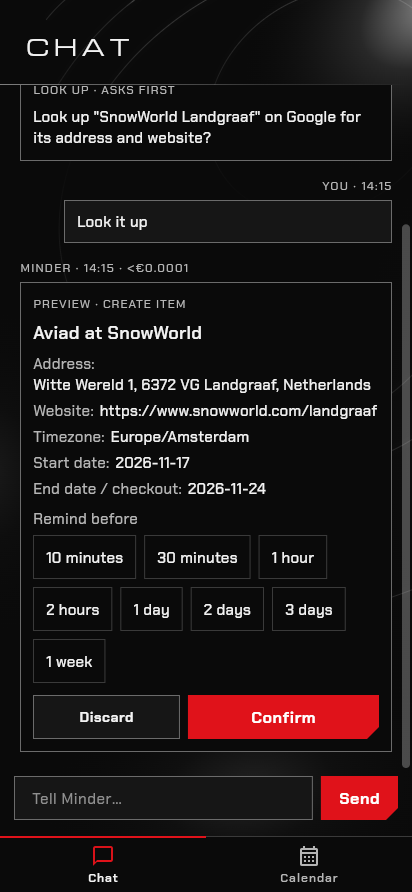
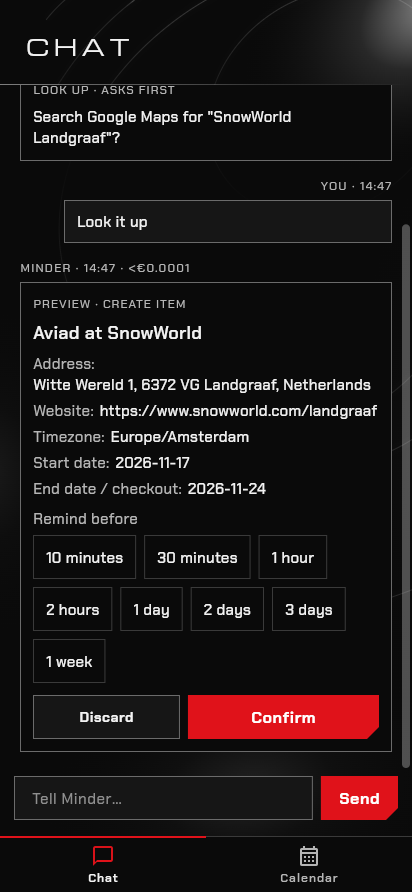
Document and verify approved lookups

diff --git a/toolchain/model_fixture.py b/toolchain/model_fixture.py
@@ -20,12 +20,10 @@ class Handler(BaseHTTPRequestHandler):
         if body.get('tools',[{}])[0].get('function',{}).get('name')=='extract_capture':
             return self.capture_response(messages)
         text=messages[-1]['content'].lower()
-        if 'approved a lookup' in text_of(messages[-1]):
-            return self.reply(None,'lookup_maps',{'query':'SnowWorld Landgraaf'})
         if 'lookup results' in text_of(messages[-1]):
             return self.reply(None,'propose_create',{'title':'Aviad at SnowWorld','location':'Witte Wereld 1, 6372 VG Landgraaf, Netherlands','website':'https://www.snowworld.com/landgraaf','start_date':'2026-11-17','end_date':'2026-11-24'})
         if 'snowworld' in text and any(t.get('function',{}).get('name')=='offer_lookup' for t in body.get('tools',[])):
-            return self.reply(None,'offer_lookup',{'query':'SnowWorld Landgraaf'})
+            return self.reply(None,'offer_lookup',{'kind':'maps','query':'SnowWorld Landgraaf'})
         items=json.loads(messages[0]['content'].split('Current items (untrusted data): ',1)[1])
         name=None;args={};content=None
         if 'what' in text and 'open' in text:name='list_items'

diff --git a/docs/evidence/place-lookup.md b/docs/evidence/place-lookup.md
@@ -34,19 +34,20 @@ Artifact: `.local/artifacts/Minder-0.9.2-arm64.apk` (ignored by Git), 19,289,894
 
 ## Postal code fix
 
-The owner tried SnowWorld Landgraaf on a phone and got only `Witte Wereld 1`, with no postal code or town. A live comparison on 2026-11-14 found the cause: Serper `/places` returns the short address, `/maps` returns `Witte Wereld 1, 6372 VG Landgraaf, Netherlands`. Deployed at `323e5fb` with the maps search; the lookup loop below replaces that single fixed endpoint. The first live check (earlier table) used `/places`, so it could not show the gap. Not yet verified on a phone.
+The owner tried SnowWorld Landgraaf on a phone and got only `Witte Wereld 1`, with no postal code or town. A live comparison on 2026-11-14 found the cause: Serper `/places` returns the short address, `/maps` returns `Witte Wereld 1, 6372 VG Landgraaf, Netherlands`. Fixed by moving the lookup to the maps search (deployed at `323e5fb`); the kinds are now offered by the model, see Approved lookups. The first live check (earlier table) used `/places`, so it could not show the gap. Not yet verified on a phone.
 
-## Lookup loop
+## Approved lookups
 
-Spec: [lookup loop design](../superpowers/specs/2026-11-14-lookup-loop-design.md). Plan: [lookup loop plan](../superpowers/plans/2026-11-14-lookup-loop.md). In `main`, deployed at `60ec83c` (Coolify deployment `e78r04hjvjqog11zkhcfiixm`, running:healthy, `serper_key_set=true`, no warnings or errors in the first 40 log lines). Not tried on a phone or with the real model yet.
-After the owner taps Look it up the model chooses `lookup_maps`, `lookup_places` or `lookup_search`, reads the results as untrusted data, and may search again up to three times in total, then proposes or asks the owner. No server fallback. The serper package is split into transport, endpoint table, decoders and a thin client. `SERPER_URL` is now a base URL.
+Spec: [approved lookups design](../superpowers/specs/2026-11-14-approved-lookups-design.md). Plan: [approved lookups plan](../superpowers/plans/2026-11-14-approved-lookups.md). A first version let the model run up to three searches after one tap. On 2026-11-14 the owner asked "try to get full address" and the model replied that it had used all its searches, though no search had run in that turn: the prompt described the lookup tools and a budget in turns where the model had no such tools. The owner asked why any limit existed and chose per-call approval.
+Now the model calls `offer_lookup` with a kind (`maps`, `places`, `search`) and a query. The card names the search. A tap runs exactly that search on the server; the model reads the hits as untrusted data and proposes, asks the owner, or offers one more search. No loop, no budget, no app change.
 
 | Check | Result |
 |---|---|
-| Live, 2026-11-14 | One real query per kind through the adapter: maps returned the full SnowWorld address with postal code and phone (3 credits); places returned Rijksmuseum, `Museumstraat 1`, rating 4.7 (1 credit); search returned three pages with snippets (1 credit) |
-| Browser | `toolchain/place-lookup-local-check` passed: the model fixture chose `/maps`; exactly one request; the preview showed the postal code; Skip ran none |
-| Loop tests | Budget of three, one reply cannot overspend, mixed replies run only the lookups, a failed lookup reaches the model as an error row, blank query costs no budget, the model can ask the owner, every model call is billed |
-| Not verified | A real model's choice among the three tools, and its ask-instead-of-guess behaviour. Both need a phone or a real-model run |
+| Tests first | Domain offer format per kind and rejection of other text; the approved offer runs that kind and query once; results are untrusted data; failed and empty searches reach the model; a new offer after results runs nothing; gate cases; the prompt names no budget; tool sets by purpose; the offer tool requires `kind` and `query` |
+| Browser | `toolchain/place-lookup-local-check` passed: the card read `Search Google Maps for "SnowWorld Landgraaf"?`, nothing ran before the tap, exactly one `/maps` request after it, the preview showed the postal code, Skip ran none |
+| Live Serper, 2026-11-14 | Maps, places and search each returned results through the adapter (see the earlier run: maps 3 credits, places 1, search 1) |
+| Real model, 2026-11-14 | Local server, OpenRouter and Serper through TokenCrypt. "Aviad Landgraaf SnowWorld 17 to 24 november" produced a Maps offer; the tap produced a preview with title, `Witte Wereld 1, 6372 VG Landgraaf, Netherlands`, phone and website in their own fields. "try to get full address" afterwards produced a new offer instead of a refusal. "Add Albert Heijn tomorrow at 10:00" made the model ask which branch; after "Look it up" typed as text it offered `Albert Heijn Amsterdam`, a guess the owner sees and can skip |
+| Not verified | Phone behaviour; whether the model picks places or search when they fit better than maps (the real runs only offered maps) |
 
 ## Limits
 

diff --git a/server/assistant/AGENTS.md b/server/assistant/AGENTS.md
@@ -16,7 +16,7 @@ Extraction asks as a thoughtful assistant would: any number of questions, no fix
 
 Chat tools are `propose_create`, `propose_update`, `propose_complete`, `propose_cancel` (status `cancelled`) and `propose_delete` (removes the item and its data), plus `propose_profile`, `list_items` (open items, shown to the owner) and `find_finished_items`. The prompt keeps done, cancelled and deleted apart. Deleted items and their cards leave the history and context. The agent sees the last 20 chat entries and at most 200 open items. `find_finished_items` (`query`, `list`) reaches done and cancelled items: the server makes one more model call with the matches as untrusted data (newest first, at most 50; the grown request stays under 120,000 bytes). That call answers about them or proposes a cancel or delete. The model must call the tool alone; any other calls in that reply are dropped, and a second lookup is an error. Both calls are billed and the reply carries both costs.
 
-Lookups are optional (`WithLookups`). With a finder set, `Message.Purpose` on the first message is `PurposeOffer`, the prompt gains `lookupRule` and the model may call `offer_lookup` (`query`) alone: the server stores only the fixed-format offer entry (`domain.OfferText`) and drops other calls. The offer is the owner's approval. Only when the owner's text is `Look it up` and the newest entry before it is a minder offer (error entries and earlier Look it up messages are skipped, so Retry works) does the server run `askWithLookups` (`lookup_loop.go`): the model gets `PurposeLookup`, which adds `lookup_maps`, `lookup_places` and `lookup_search` from `LookupTools` (each description states cost and returned fields). Each reply's lookup calls run through the `Finder`, at most `lookupBudget` (3) searches per approval; other calls in that reply are dropped. Results return as one untrusted-data user message; a blank query or a call over the budget gets an error row and costs nothing. With the budget spent the model gets `PurposeChat` and must propose or ask the owner; lookup calls in the final reply are discarded. A plain-text reply is a question to the owner. Every model call is billed and the reply carries all costs. Any other text, a stale offer or a missing finder runs no search. Logs carry `query_len`, never the query. The loop has no fallback between tools: the model judges the results.
+Lookups are optional (`WithLookups`). With a finder set, `Message.Purpose` on the first message is `PurposeOffer`, the prompt gains `lookupRule` and the model may call `offer_lookup` (`kind`: maps, places or search; `query`) alone, once per owner message. The server stores only the fixed-format offer entry (`domain.OfferText`) and drops other calls; an unknown kind or blank query is an error. The offer is the owner's approval of that exact search. Only when the owner's text is `Look it up` and the newest entry before it is an offer (error entries and earlier Look it up messages are skipped, so Retry works) does the server run that kind and query through the `Finder` and add the hits to the request as untrusted data (`lookupMessage`; at most three hits). The model then gets its normal call: it proposes, asks the owner, or offers one more search, which is a new card and a new tap. A failed or empty search says so. Any other text, a stale offer or a missing finder runs no search. There is no search budget and no loop; the prompt never mentions a limit and tells the model that `offer_lookup` is how it searches. Logs carry `kind` and `query_len`, never the query.
 
 # Work Guidance
 

diff --git a/HANDOFF.md b/HANDOFF.md
@@ -2,7 +2,7 @@
 
 State on 2026-11-14. Production runs `60ec83c` from `main` (Coolify deployment `e78r04hjvjqog11zkhcfiixm`, running:healthy, schema 5, no migration, startup log `serper_key_set=true`, no warnings or errors in the first 40 log lines). The Coolify app is pinned to branch `main` at that commit. The previous runtime was `323e5fb` (maps only), reachable from `main`; roll back with branch `main` and that commit.
 `main` holds every earlier branch and is the only branch, locally and on origin. The worktree `Minder-m0-chat` is detached at `main`; start new work there with a new branch from `main`.
[2 lines of base64/hex data omitted]
 
 ## Current work: approved controls and booking fields
 
@@ -112,7 +112,7 @@ In `main` and deployed at `adb1bdf` (Coolify deployment `gn89izeozdgbno8bmucrxgx
 When a request names a venue without an address, chat shows an offer card (Skip, Look it up). Look it up runs one Serper places search for the offered query and the next preview carries the address in location and the website in the website field. Skip and any other text run no search. The server needs `SERPER_API_KEY` (TokenCrypt secret `serper_api_key`) as a Coolify process variable; without it chat is unchanged.
 Design: [docs/superpowers/specs/2026-11-13-place-lookup-design.md](docs/superpowers/specs/2026-11-13-place-lookup-design.md). Plan and evidence: [docs/superpowers/plans/2026-11-13-place-lookup.md](docs/superpowers/plans/2026-11-13-place-lookup.md), [docs/evidence/place-lookup.md](docs/evidence/place-lookup.md). APK 0.9.2 (`.local/artifacts/Minder-0.9.2-arm64.apk`, ignored by Git) reached Telegram once (message 2009). Nobody has tried a lookup against production or on a phone yet. Phone approval is pending.
 
-Lookup loop: after the owner taps Look it up, the model chooses Serper maps, places or search (up to three searches), reads the results and proposes or asks the owner; no server fallbacks. Postal codes now come from maps. Spec: [lookup loop design](docs/superpowers/specs/2026-11-14-lookup-loop-design.md); evidence: [docs/evidence/place-lookup.md](docs/evidence/place-lookup.md). Deployed with `60ec83c`. No app change.
+Approved lookups (branch `approved-lookups`, not merged or deployed): the model offers one search (`offer_lookup` with kind maps, places or search, and a query); the owner's tap runs exactly that search; the model reads the hits and proposes, asks, or offers another. No budget, no loop. Spec: [approved lookups design](docs/superpowers/specs/2026-11-14-approved-lookups-design.md); evidence: [docs/evidence/place-lookup.md](docs/evidence/place-lookup.md). Production runs the earlier three-search loop (`60ec83c`), which wrongly told the owner it had no searches left; no app change.
 
 ## App icon and faster highlights
 

diff --git a/toolchain/AGENTS.md b/toolchain/AGENTS.md
@@ -19,7 +19,7 @@ Pinned Podman runners, build helpers and verification scripts.
 - `model_fixture.py` supplies the test OpenRouter endpoint on loopback port 8181. Never run it in production.
 - The calendar browser scenario checks selection, typed detail expansion/collapse and return to Chat.
 - The chat browser scenario checks delayed offline status without a message or Retry block, restored composer text after failed sends, and recovery/resend through the header icon.
-- `serper_fixture.py` supplies a fake Serper on a temporary port and lists the requests it received (`<path> <query>`) at `GET /calls`. `place-lookup-local-check` and `place-lookup-check.cjs` run the offer card against compiled web, the model fixture and that fake: the offer runs no search, Look it up lets the model run exactly one `/maps` search and the preview shows the postal code, Skip runs none. Never run the fixtures in production.
+- `serper_fixture.py` supplies a fake Serper on a temporary port and lists the requests it received (`<path> <query>`) at `GET /calls`. `place-lookup-local-check` and `place-lookup-check.cjs` run the offer card against compiled web, the model fixture and that fake: the card names the search, the offer runs none, Look it up runs exactly that `/maps` search and the preview shows the postal code, Skip runs none. Never run the fixtures in production.
 - Chat, reminder, calendar and email local checks each start an isolated model fixture on a temporary port. Run browser scenarios in sequence.
 - `email-local-check` and `email-check.cjs` cover signed ingestion, compiled-web answers/downloads/review, the appointment flow (question message, expanded structured email details, targeted inline duration reply, reminder chip, Confirm and separate saved phone/email/website/booking-reference fields) and real SQLite provenance and reminder schedules.
 - Real-model checks use temporary databases and provider cost values. `real-model-multi-check.py [runs]` checks two proposals.

diff --git a/server/openrouter/AGENTS.md b/server/openrouter/AGENTS.md
@@ -14,7 +14,7 @@ Provider fixtures use local HTTP servers. Real-model checks use temporary databa
 
 Tool schemas distinguish event ends, date-only ranges and deadlines; preserve travel zones and never invent missing clock times.
 
-`propose_cancel` and `propose_delete` need `item_id` and `expected_version`, like `propose_complete`. `find_finished_items` takes an optional `query` and `list`. The tool set follows `Message.Purpose` on the first message (`toolsFor`): chat has the base tools; `PurposeOffer` adds `offer_lookup`; `PurposeLookup` adds `lookup_maps`, `lookup_places` and `lookup_search` (built from `assistant.LookupTools`, each with a required `query`); `PurposeEmail` has only `extract_capture`.
+`propose_cancel` and `propose_delete` need `item_id` and `expected_version`, like `propose_complete`. `find_finished_items` takes an optional `query` and `list`. The tool set follows `Message.Purpose` on the first message (`toolsFor`): chat has the base tools; `PurposeOffer` adds `offer_lookup` (required `kind`, an enum built from `assistant.LookupKinds` whose description states each kind's cost and returned fields, and a required `query`); `PurposeEmail` has only `extract_capture`.
 
 
 Item and capture tool schemas expose phone, email, website and booking_reference as separate strings and support clear flags. Notes hold remaining instructions.

diff --git a/server/domain/AGENTS.md b/server/domain/AGENTS.md
@@ -16,7 +16,7 @@ Items distinguish event end from deadline, and date-only ranges from instants. E
 
 Capture values carry source metadata, attachment manifests, coverage, candidate revisions and follow-up answers without provider or storage code.
 
-The place-lookup offer is a minder entry with fixed text (`OfferText`, `ParseOffer`); `IsLookupReply` accepts `Look it up`. `Entry` marshals a computed `options` (`Skip`, `Look it up`) for a well-formed offer only; nothing stores it.
+The lookup offer (`Offer{Kind, Query}`, kinds maps, places, search) is a minder entry with fixed text, for example `Search Google Maps for "<query>"?` (`OfferText`, `ParseOffer`; an unknown kind or blank query is refused); `IsLookupReply` accepts `Look it up`. `Entry` marshals a computed `options` (`Skip`, `Look it up`) for a well-formed offer only; nothing stores it.
 
 `Change.RemovedEntryIDs` (`removed_entry_ids`) lists chat entries a delete removed. `Audit.ItemDeleted` marks the audit row that lets Undo restore a deleted item.
 

diff --git a/server/cmd/minder/AGENTS.md b/server/cmd/minder/AGENTS.md
@@ -14,7 +14,7 @@ Main logs process failures after run returns, so deferred cleanup executes.
 Main builds the logger (`logging.go`), logs the effective settings with secrets reduced to set or unset flags, and routes HTTP server errors into the same log.
 Shutdown logs each stage: signal, HTTP server, worker, conversation and database.
 
-With `SERPER_API_KEY` set, main enables the place lookup (offer tool and Serper adapter); without it chat is unchanged.
+With `SERPER_API_KEY` set, main enables lookups (offer tool and Serper adapter); without it chat is unchanged.
 
 Opt-in email capture composes signed ingress, private files, document adapters and isolated model extraction. Shutdown waits for both email and reminder workers before SQLite closes.
 

diff --git a/docs/superpowers/specs/2026-11-13-place-lookup-design.md b/docs/superpowers/specs/2026-11-13-place-lookup-design.md
@@ -1,4 +1,4 @@
-> Extended by the [lookup loop design](2026-11-14-lookup-loop-design.md): after approval the model chooses maps, places or search and the server runs no fixed search. The offer card and approval rules below still hold.
+> Extended by the [approved lookups design](2026-11-14-approved-lookups-design.md): the offer names a kind (maps, places or search) and the server runs exactly the approved kind and query. The offer card and approval rules below still hold.
 
 # Place lookup with Serper
 

diff --git a/docs/superpowers/specs/2026-11-14-approved-lookups-design.md b/docs/superpowers/specs/2026-11-14-approved-lookups-design.md
@@ -1,6 +1,6 @@
 # Approved lookups design
 
-Date: 2026-11-14. Replaces the lookup-loop design. The owner chose per-call approval: every search is shown first and runs only after a tap. The owner called a search budget useless and annoying, so there is none.
+Date: 2026-11-14. The owner chose per-call approval: every search is shown first and runs only after a tap. The owner called a search budget useless and annoying, so there is none.
 
 ## Behaviour
 
